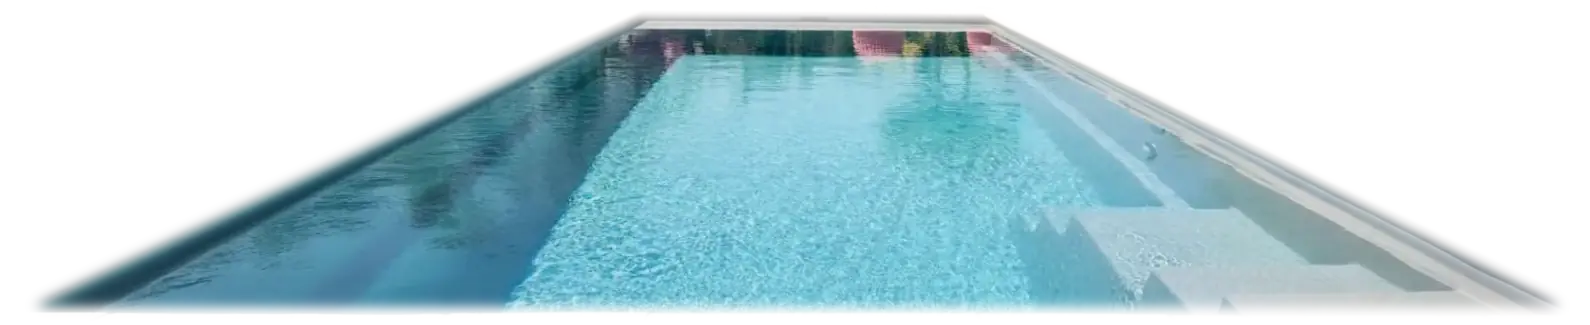
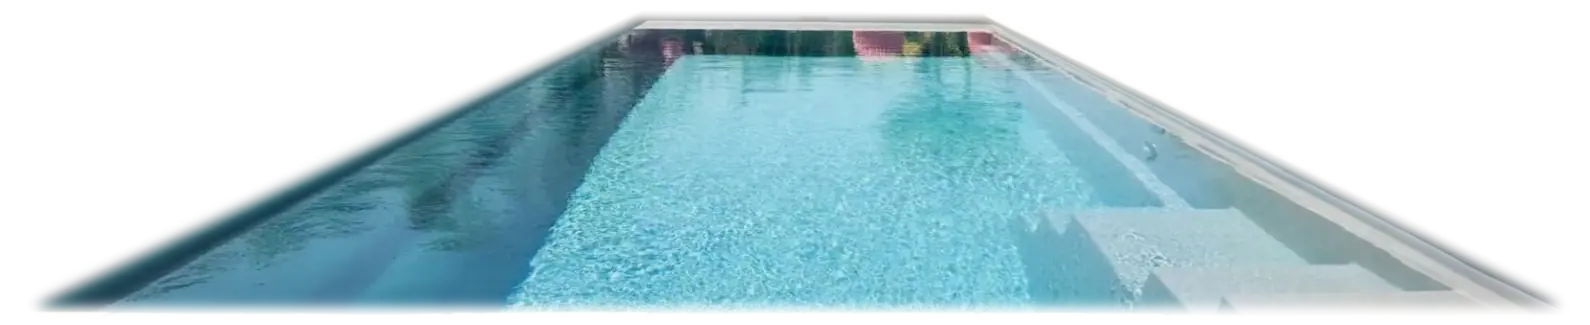
Hero: Wasser-Schleife weiter gekürzt
Claude-Session: https://claude.ai/code/session_019KKgNTWwGLvJJYy8rZqis2

diff --git a/HANDOVER.md b/HANDOVER.md
@@ -20,7 +20,7 @@ Kurzfassung für die nächste Sitzung. Arbeitsregeln und festgelegte Entscheidun
 
 1. **Header** (`components/Header.astro`) – 1:1 Space Kit (Glas-Leiste, Lade-Animation, Mobile-Menü gleitet 0,4 s von oben). Button „Beratung anfragen“ = runder Pill-Button dunkelblau.
 2. **Hero** (`components/Hero.astro`) – Space-Kit-Aufbau (Pill mit Preis „Komplettpaket ab 22.700 € zzgl. Erdarbeiten“, Headline „Ihr Traumpool. Fertig in 48 Stunden.“, Wellen-Kreis mit Umlauftext; Hotspots auf Wunsch entfernt).
-   - Hintergrund = **Köpfer-Video als Bildfolge**: 96 Einzelbilder in `website/public/koepfer/d/` (1920×1080) und `m/` (720×1280, Hochformat), per Canvas gezeichnet. Beim ersten Scrollen läuft es von selbst in 3,2 s bis unter Wasser durch (Seite steht so lange), Text/Buttons blenden aus; zurück ganz oben läuft es genauso rückwärts. Am Ende der Fahrt scrollt die Seite automatisch zu Sektion 2 (Lenis `scrollTo`, `window.lenis`). Im Ruhezustand oben bewegt sich nur das Wasser: 16 Pool-Ausschnitte mit weichem Rand in `website/public/koepfer/w/` (aus der ersten Sekunde des Videos – später driftet das Wasser nach rechts –, auf Bild 0 stabilisiert, nahtlos überblendet, 16 Bilder/s, 0,4 MB), werden über Bild 0 gezeichnet.
+   - Hintergrund = **Köpfer-Video als Bildfolge**: 96 Einzelbilder in `website/public/koepfer/d/` (1920×1080) und `m/` (720×1280, Hochformat), per Canvas gezeichnet. Beim ersten Scrollen läuft es von selbst in 3,2 s bis unter Wasser durch (Seite steht so lange), Text/Buttons blenden aus; zurück ganz oben läuft es genauso rückwärts. Am Ende der Fahrt scrollt die Seite automatisch zu Sektion 2 (Lenis `scrollTo`, `window.lenis`). Im Ruhezustand oben bewegt sich nur das Wasser: 11 Pool-Ausschnitte mit weichem Rand in `website/public/koepfer/w/` (aus den ersten ~0,7 s des Videos – später driftet das Wasser nach rechts –, auf Bild 0 stabilisiert, nahtlos überblendet, 16 Bilder/s, 0,3 MB), werden über Bild 0 gezeichnet.
    - Drei runde Buttons (Dunkelblau/Türkis/Grau) in `components/ButtonGroup.astro`: Ruhezustand gestapelt, Hover fächert auf (21st.dev bundled/10); Handy: senkrecht gestapelt, Antippen fächert nach unten auf.
 3. **Sektion 2** (`components/BentoSection.astro`) – Space-Kit-Bento: Laufband, Überschrift, 2 Reihen (Text-Feld 35 % + Bild 65 %, Reihe 2 gespiegelt). Bild-Animation: Fläche wächst aus der Mitte, Ecken durchgehend 8 px, startet beim Hereinscrollen und läuft 1,4 s selbstständig; Text blendet gleichzeitig ein.
 4. Darunter Platzhalter „Weitere Sektionen folgen.“
